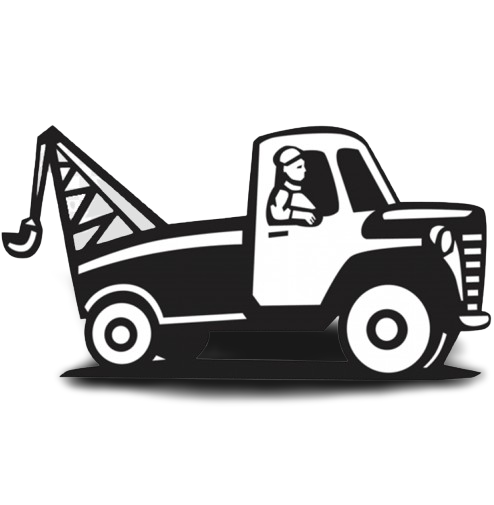
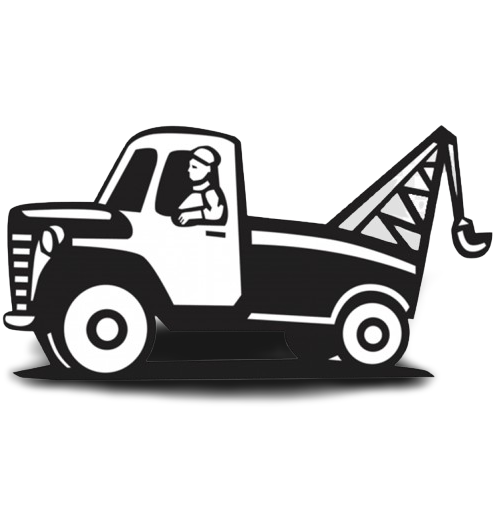
fel le mozgó vontató

Changed region(s): [[0.0, 0.2376, 1.0, 0.802]]

diff --git a/frontend/src/components/Kinalat.jsx b/frontend/src/components/Kinalat.jsx
@@ -37,11 +37,11 @@ function Kinalat({ isLoggedIn, handleFavoriteToggle, favorites }) {
     }
   };
 
-  // Egy animált konténer, amely balról csúszik be lassan, majd középre áll
+  // Animált konténer, amely jobbról csúszik be lassan, majd középre áll
   const headerSpring = useSpring({
-    from: { transform: 'translateX(-150%)' },
+    from: { transform: 'translateX(150%)' },
     to: { transform: 'translateX(0%)' },
-    config: { duration: 1500 }
+    config: { duration: 3000 }
   });
 
   const settings = {
@@ -60,14 +60,14 @@ function Kinalat({ isLoggedIn, handleFavoriteToggle, favorites }) {
       <div className="video-hatter">
         <Video />
         <Container className="my-4" style={{ position: 'relative', zIndex: 1 }}>
-          {/* Animált header: a szöveg és a vontatókocsi együtt */}
+          {/* Animált header: a kocsi és a szöveg együtt, a kocsi a bal oldalon */}
           <Row className="d-flex justify-content-center animation-container">
             <Col xs={12} style={{ position: 'relative' }}>
               <animated.div style={headerSpring} className="animation-wrapper">
-                <h1 className="kinalat-title">Jelenlegi kínálatunk</h1>
                 <div className="car-animation">
                   <img src="/img/wrecker.png" alt="Vontatókocsi" className="car-image" />
                 </div>
+                <h1 className="kinalat-title">Jelenlegi kínálatunk</h1>
               </animated.div>
             </Col>
           </Row>

diff --git a/frontend/src/components/Kinalat.css b/frontend/src/components/Kinalat.css
@@ -4,7 +4,7 @@
   margin-bottom: 20px;
 }
 
-/* Flex konténer, amelyben a szöveg és a vontatókocsi egymás mellett vannak */
+/* Flex konténer, amelyben a kocsi és a szöveg egymás mellett vannak */
 .animation-wrapper {
   display: flex;
   align-items: center;
@@ -13,12 +13,12 @@
   width: 100%;
 }
 
-/* A "Jelenlegi kínálatunk" szöveg – középre igazítva, a kártyák fölött */
+/* A "Jelenlegi kínálatunk" szöveg – középre igazítva, a kártyák fölött, most a kocsi jobb oldalán */
 .kinalat-title {
   color: #f8f9fa;
   font-size: 2.5rem;
   margin: 0;
-  margin-right: 10px;  /* A szöveg és a kocsi közötti távolság */
+  margin-left: 10px;  /* A kocsi és a szöveg közötti távolság */
 }
 
 /* A vontatókocsi képe, amelyet animálunk */
@@ -27,8 +27,21 @@
   flex-shrink: 0;
 }
 
-/* A vontatókocsi kép stílusa */
+/* A vontatókocsi kép stílusa és fel-le mozgása */
 .car-image {
   width: 100%;
   height: auto;
+  animation: upDown 2s ease-in-out infinite;
+}
+
+@keyframes upDown {
+  0% {
+    transform: translateY(0);
+  }
+  50% {
+    transform: translateY(-10px);
+  }
+  100% {
+    transform: translateY(0);
+  }
 }
